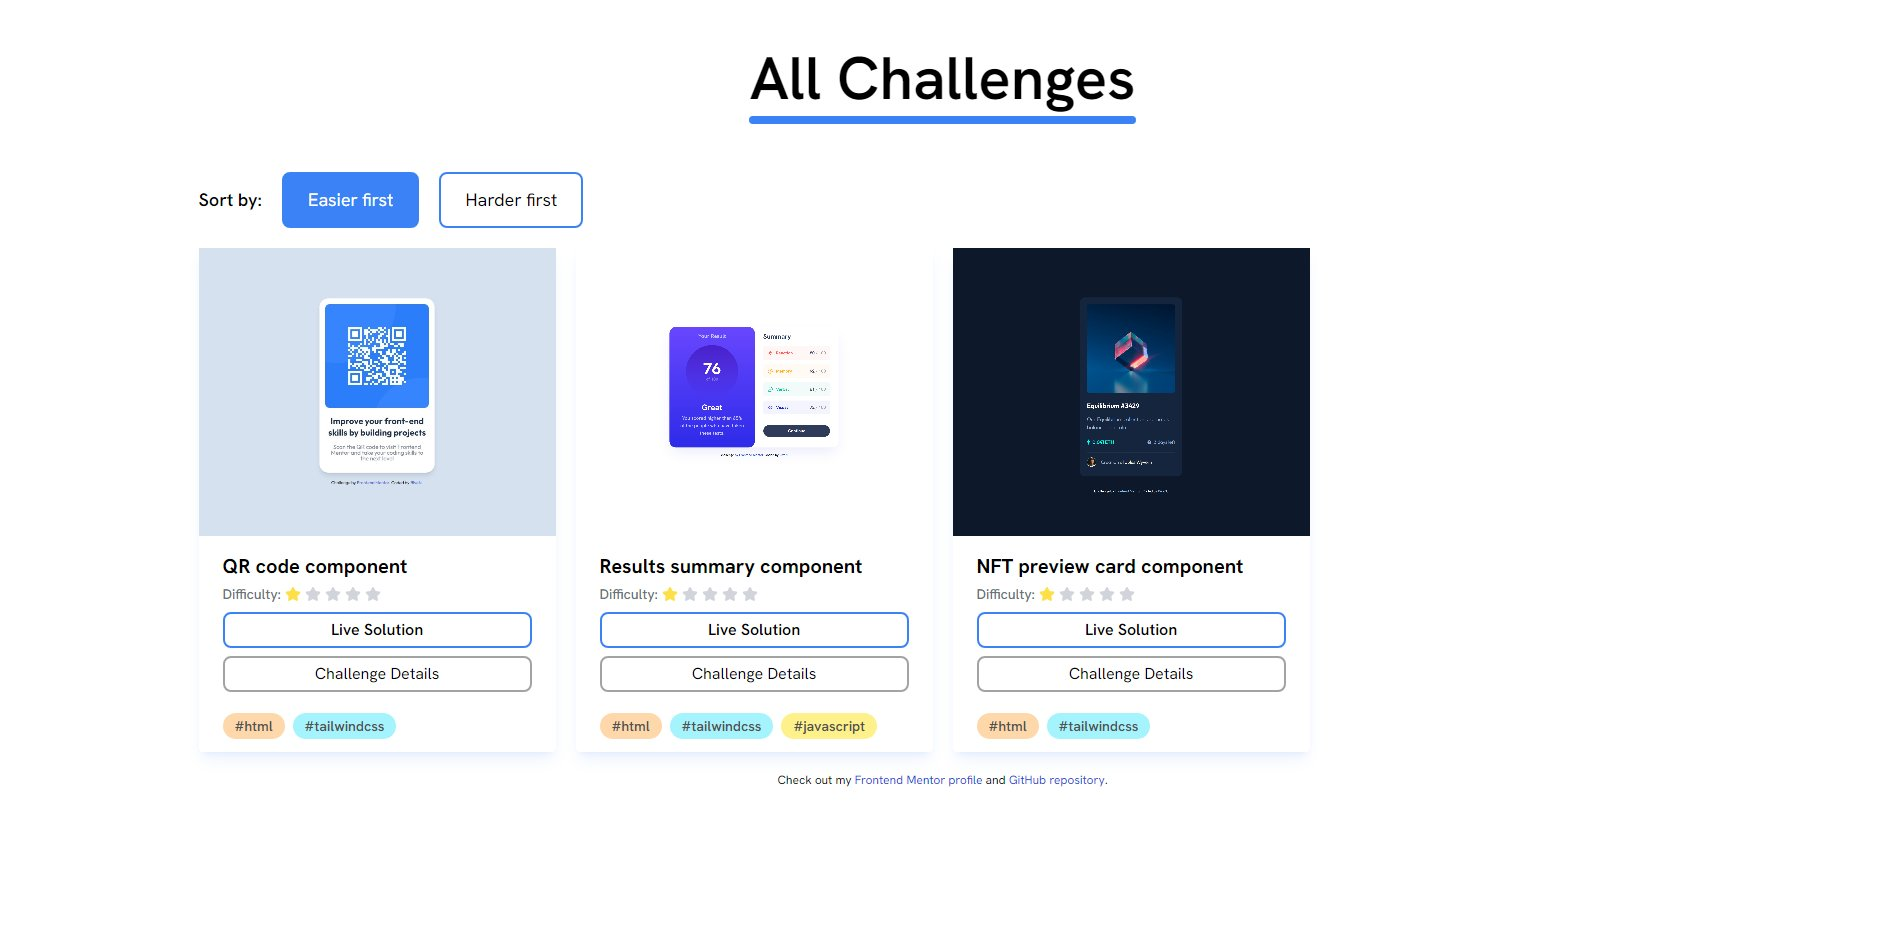
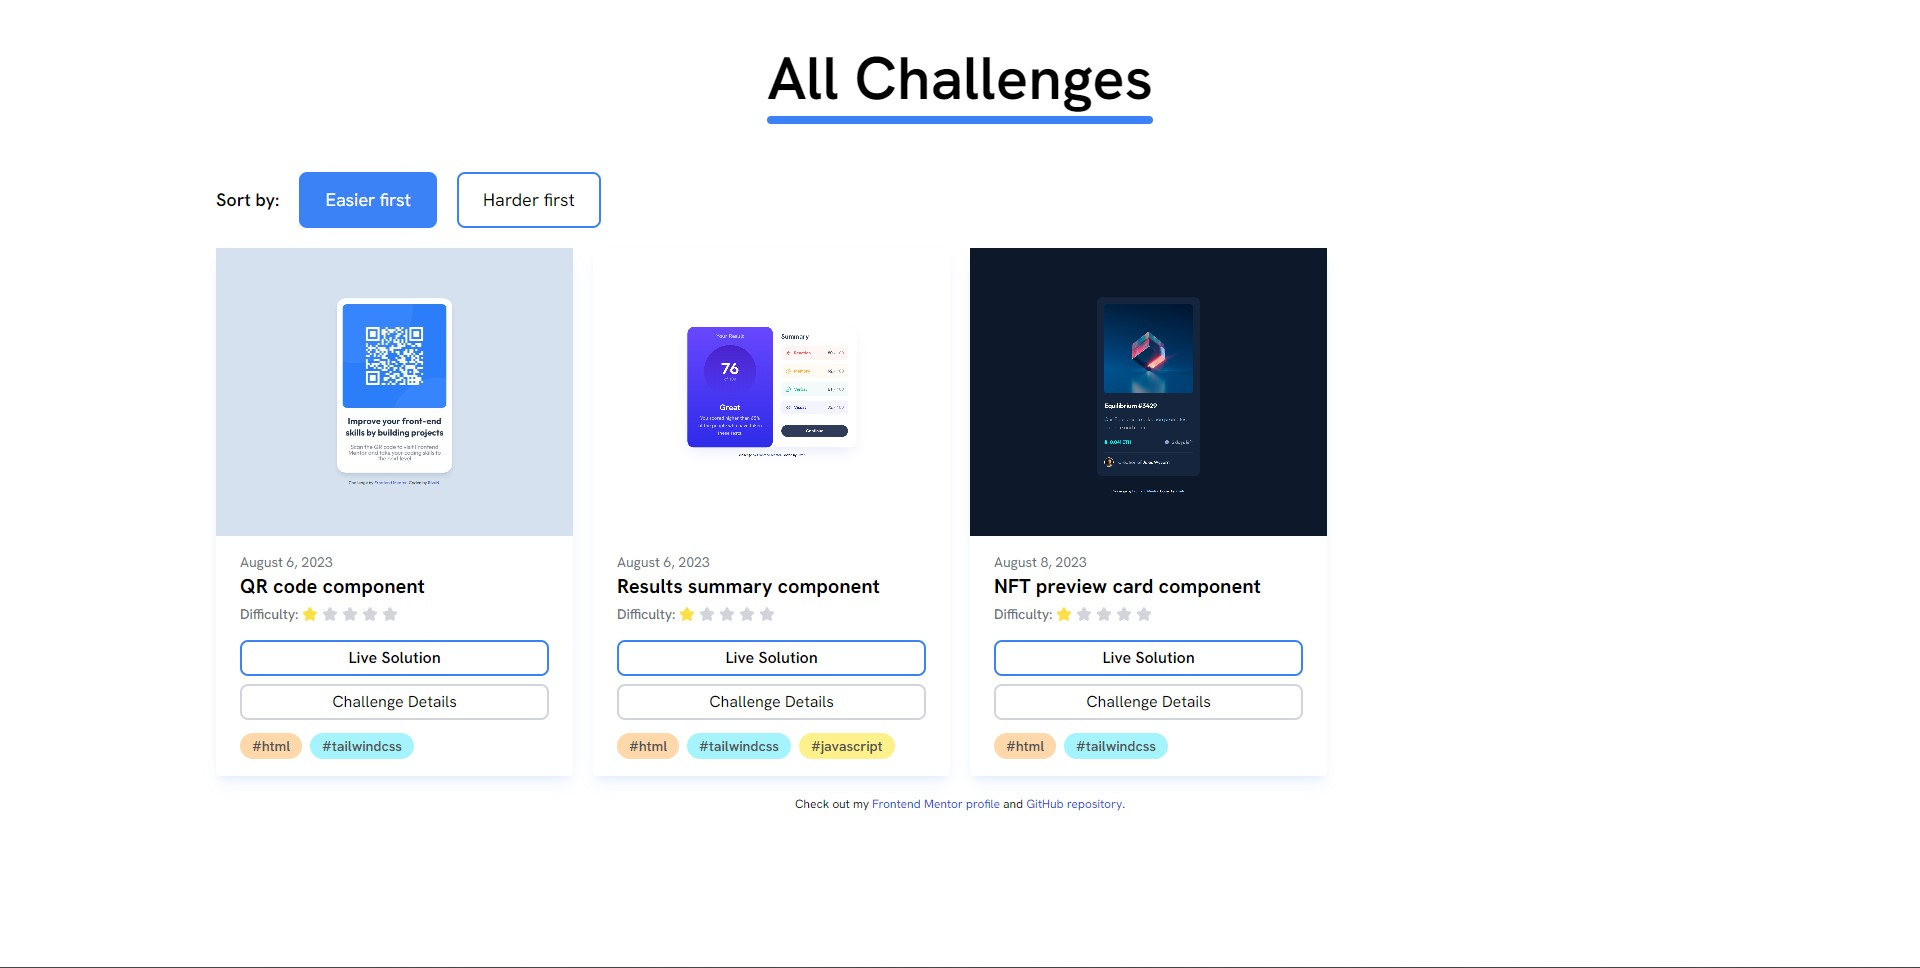
Added "added date" to each challenge

diff --git a/assets/script.js b/assets/script.js
@@ -23,7 +23,7 @@ const createChallengeCards = (challenges) => {
     contentContainer.innerHTML = "";
 
     for (const challenge of challenges) {
-        const { title, difficulty, tags, url, image } = challenge;
+        const { title, difficulty, tags, url, image, datetime } = challenge;
 
         const stars = Array.from({ length: 5 }, (_, i) => i + 1 <= difficulty)
             .map(
@@ -41,6 +41,7 @@ const createChallengeCards = (challenges) => {
             <div class="rounded shadow-lg shadow-blue-500/10 fade-in" style="opacity: 0;">
                 <img src="${image}" alt="challenge preview image" class="h-72 object-cover m-auto">
                 <div class="px-6 py-4">
+                    <p class="text-sm text-gray-500">${getTimeAgo(datetime)}</p>
                     <h2 class="font-bold text-xl">${title}</h2>
                     <div class="flex items-center py-1">
                         <p class="text-sm font-medium text-gray-500">Difficulty:&nbsp;</p>
@@ -114,6 +115,38 @@ const setupChallengeInfoModals = () => {
         }
     });
 };
+
+// Function to get the time ago from a date
+function getTimeAgo(date) {
+    const MINUTE = 60,
+        HOUR = 3600,
+        DAY = 86400,
+        WEEK = 6048e2;
+
+    const secondsAgo = Math.round((Date.now() - Date.parse(date)) / 1e3);
+
+    if (secondsAgo < MINUTE) {
+        return "Added just now";
+    }
+
+    let timeUnit, timeDivisor;
+
+    if (secondsAgo < HOUR) {
+        timeUnit = "minute";
+        timeDivisor = MINUTE;
+    } else if (secondsAgo < DAY) {
+        timeUnit = "hour";
+        timeDivisor = HOUR;
+    } else if (secondsAgo < WEEK) {
+        timeUnit = "day";
+        timeDivisor = DAY;
+    } else {
+        return new Date(date).toLocaleDateString("en-US", { year: "numeric", month: "long", day: "numeric" });
+    }
+
+    const count = Math.floor(secondsAgo / timeDivisor);
+    return `Added ${count} ${timeUnit}${count !== 1 ? "s" : ""} ago`;
+}
 
 // Add event listener to the document to load the challenges and create the dynamic elements
 document.addEventListener("DOMContentLoaded", () => {
